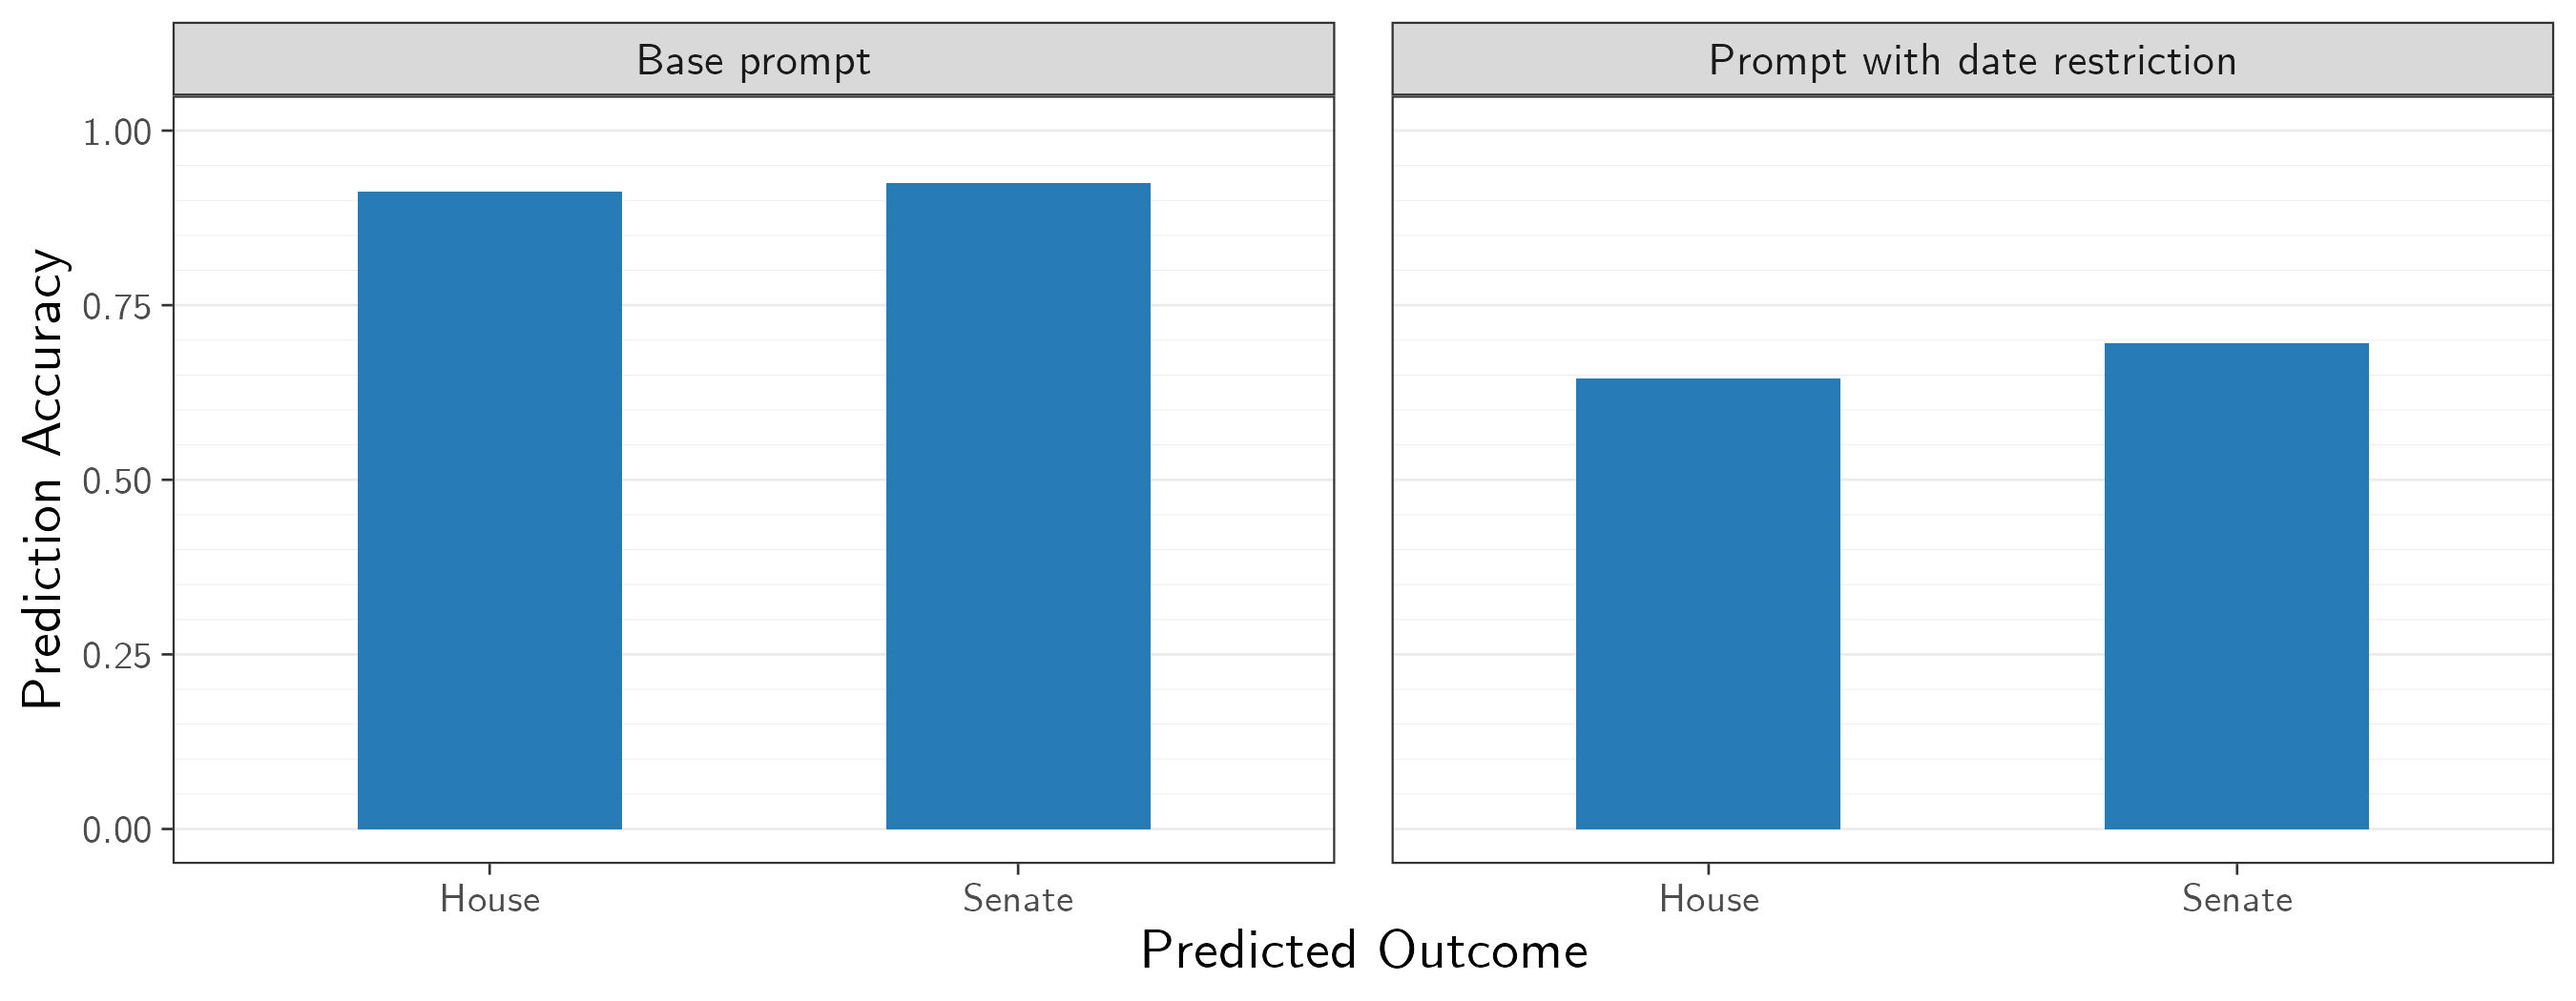
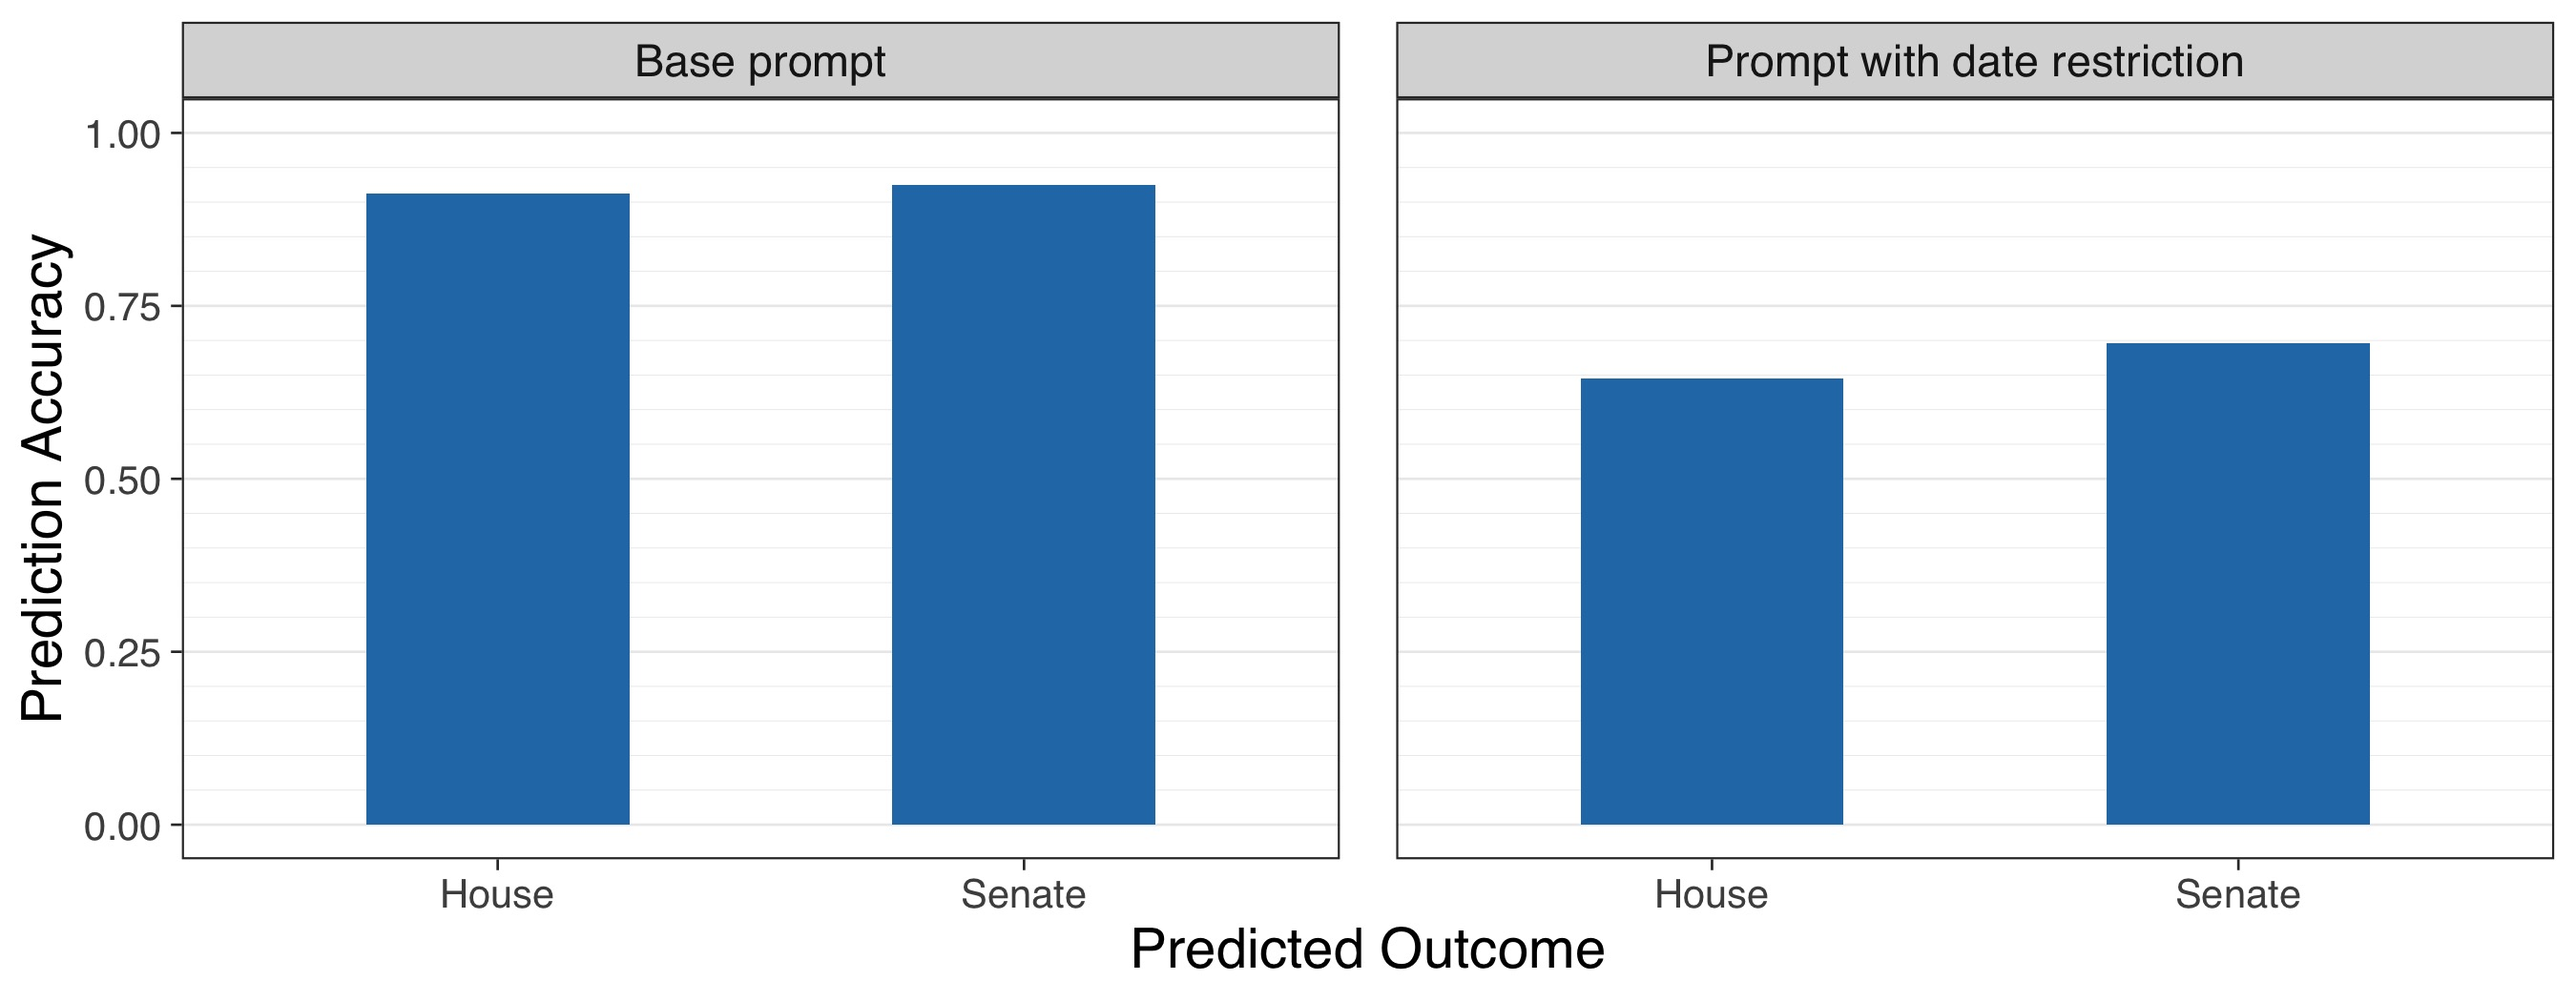
Remove API KEY from estimation_headlines + added missing purrr library calls + directory changes

diff --git a/estimation_headlines/code/constants.py b/estimation_headlines/code/constants.py
@@ -1,4 +1,8 @@
-API_KEY = "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"
+import os
+from dotenv import load_dotenv
+ENV_FILE_PATH = "../.env"
+load_dotenv(ENV_FILE_PATH, override=True)
+API_KEY = os.environ.get('API_KEY')
 
 personas = [
     "You are a knowledgeable economic agent. ",

diff --git a/estimation_headlines/README.md b/estimation_headlines/README.md
@@ -1,18 +1,28 @@
-# Code and Data for Headlines Estimation Exercise
+# Estimation Tasks: Financial News Headlines
 
-## Quickstart and Using this Code Base
+This subdirectory contains scripts, data, and outputs for **estimation tasks** on **financial news headlines**. 
+
+## Directory Structure
+
+- `code/`: 
+    - Contains Python and R scripts for data processing, prompting, and analysis.
+- `data/`: Contains raw and processed data outputs.
+- `figures/`: generates all figures for all results, including those not used in the paper.
+
+
+## Replication Options
+
 There are three possible levels of replication that this code base allows for: 
 1. Creating the dataset of headlines and rerunning the prompting exercise followed by steps 2 and 3 below.
 2. Analyzing each LLMs responses to the prompting exercise followed by step 3 below. 
 3. Generating the regression tables and figures. 
 
-For running any of the code, navigate to `./headlines/code`. There are 4 shell scripts here that replicate our work. 
+For running any of the code, navigate to `./estimation_headlines/code`. There are 4 shell scripts here that replicate our work. 
 Run `chmod +x ./{SCRIPT}.sh` before executing any of the following scripts. 
 1. `run_prompting.sh`
-	* Navigate to the `./data/returns_data` directory. Unzip all the `.zip` files. 
+	* Navigate to the `./data/raw/returns_data` directory. Unzip all the `.zip` files. 
 	* Now, run `./run_prompting.sh`. This will run a bash script that populates first the data inside each return type subdirectory inside `./returns_data`. There will be a different `.csv` produced for each month and return type. 
 	* The bash script will then write LLM prompts based on the headlines data that was just generated. If a set of prompts already exists, to overwrite them by running this script, type "yes" to confirm the overwrite. Finally, the script will submit each of the prompts in batches via the Open AI API. 
-		* 	Note: set the API key in `constants.py` and make sure there are funds in the corresponding OpenAI account for this script to finish execution. 
 2. `run_analysis.sh`
 3. `run_regressions.sh` and `run_figures.sh`
 	* The figures directory should be populated after this script executes. 
@@ -59,7 +69,7 @@ Our data generation and processing pipeline for this exercise is this the follow
 
 7. Regress each type of return on the LLM-generated labels for the headlines.
 
-## Repository Structure
+## Directory Structure (Detailed)
 
 For this particular exercise, navigate to the `headlines` folder. This is the root directory. All the scripts should be run from this directory.
 

diff --git a/estimation_legislation/README.md b/estimation_legislation/README.md
@@ -15,8 +15,7 @@ This subdirectory contains scripts, data, and outputs for **estimation tasks** o
 You can replicate the results using one of the following methods:
 1. **Full Replication:** Run the shell script run_all.sh to execute all steps in sequence:
     ```
-    chmod +x ./estimation_legislation/code/run_all.sh
-    ./estimation_legislation/code/run_all.sh
+    bash estimation_legislation/code/run_all.sh
     ```
 2. **Partial Replication:** Run individual scripts for specific steps. 
 

diff --git a/README.md b/README.md
@@ -42,8 +42,7 @@ You can replicate the results presented in the paper using one of the following 
 
 1. **Full Replication:** Run the `run_all.sh` shell script to execute all steps in sequence:
     ```
-    chmod +x ./run_all.sh
-    ./run_all.sh
+    bash run_all.sh
     ```
 
 2. **Partial Replication:** Run individual scripts for specific steps. Each subdirectory contains a detailed `README.md` file with instructions for task-specific replication.

diff --git a/prediction_legislation/README.md b/prediction_legislation/README.md
@@ -14,8 +14,7 @@ You can replicate the results using one of the following methods:
 
 1. **Full Replication:** Run the shell script run_all.sh to execute all steps in sequence:
     ```
-    chmod +x ./prediction_legislation/code/run_all.sh
-    ./prediction_legislation/code/run_all.sh
+    bash prediction_legislation/code/run_all.sh
     ```
 
 2. **Partial Replication:** Run individual scripts for specific steps. 

diff --git a/figures/README.md b/figures/README.md
@@ -19,8 +19,7 @@ You can replicate the figures using the following methods:
 
 1. **Full Replication:** To generate all figures for all tasks and datasets, run `run_all.sh` script as follows:
     ```
-    chmod +x ./figures/code/run_all.sh
-    ./figures/code/run_all.sh
+    bash figures/code/run_all.sh
     ```
 
 2. **Partial Replication:** To generate a specific figure, run its relevant R script. For example:

diff --git a/prediction_headlines/README.md b/prediction_headlines/README.md
@@ -14,8 +14,7 @@ You can replicate the results using one of the following methods:
 
 1. **Full Replication:** Run the shell script run_all.sh to execute all steps in sequence:
     ```
-    chmod +x ./prediction_headlines/code/run_all.sh
-    ./prediction_headlines/code/run_all.sh
+    bash prediction_headlines/code/run_all.sh
     ```
 
 2. **Partial Replication:** Run individual scripts for specific steps. 

diff --git a/tables/README.md b/tables/README.md
@@ -19,8 +19,7 @@ You can replicate the tables using the following methods:
 
 1. **Full Replication:** To generate all tables for all tasks and datasets, run `run_all.sh` script as follows:
     ```
-    chmod +x ./tables/code/run_all.sh
-    ./tables/code/run_all.sh
+    bash tables/code/run_all.sh
     ```
 
 2. **Partial Replication:** to generate a specific table, run its relevant R script. For example:
